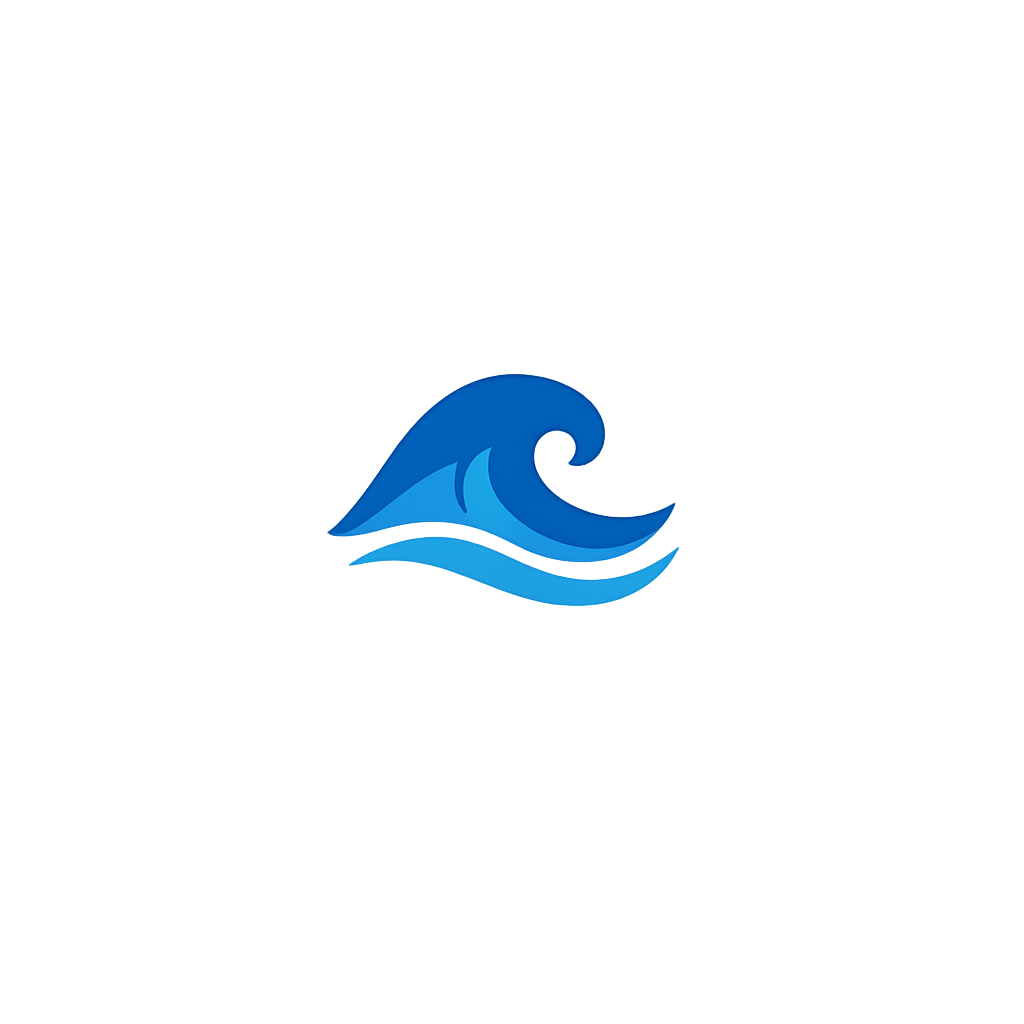
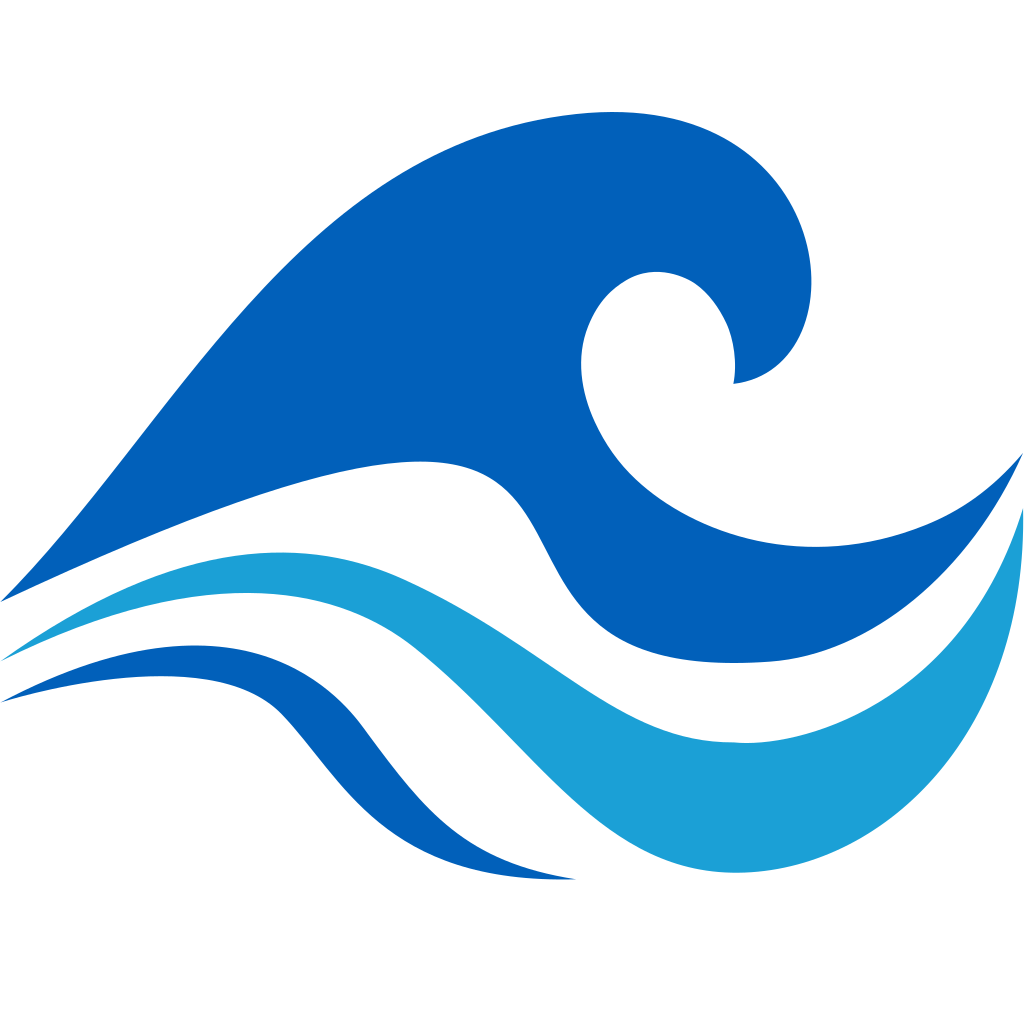
Refactor code structure for improved readability and maintainability

diff --git a/index.html b/index.html
@@ -3,7 +3,9 @@
   <head>
     <meta charset="UTF-8" />
     <link rel="icon" type="image/svg+xml" href="/favicon.svg" />
-    <link rel="apple-touch-icon" sizes="180x180" href="/apple-touch-icon.png" />
+    <link rel="icon" type="image/png" sizes="192x192" href="/icon-192.png" />
+    <link rel="icon" type="image/png" sizes="512x512" href="/icon-512.png" />
+    <link rel="apple-touch-icon" sizes="180x180" href="/apple-touch-icon-180.png" />
     <link rel="manifest" href="/manifest.json" />
     <meta name="viewport" content="width=device-width, initial-scale=1.0, viewport-fit=cover" />
     <meta name="description" content="Interactive River Lune cleanup tracker with live mapped recoveries, debris status, and tide-aware planning for volunteer action." />